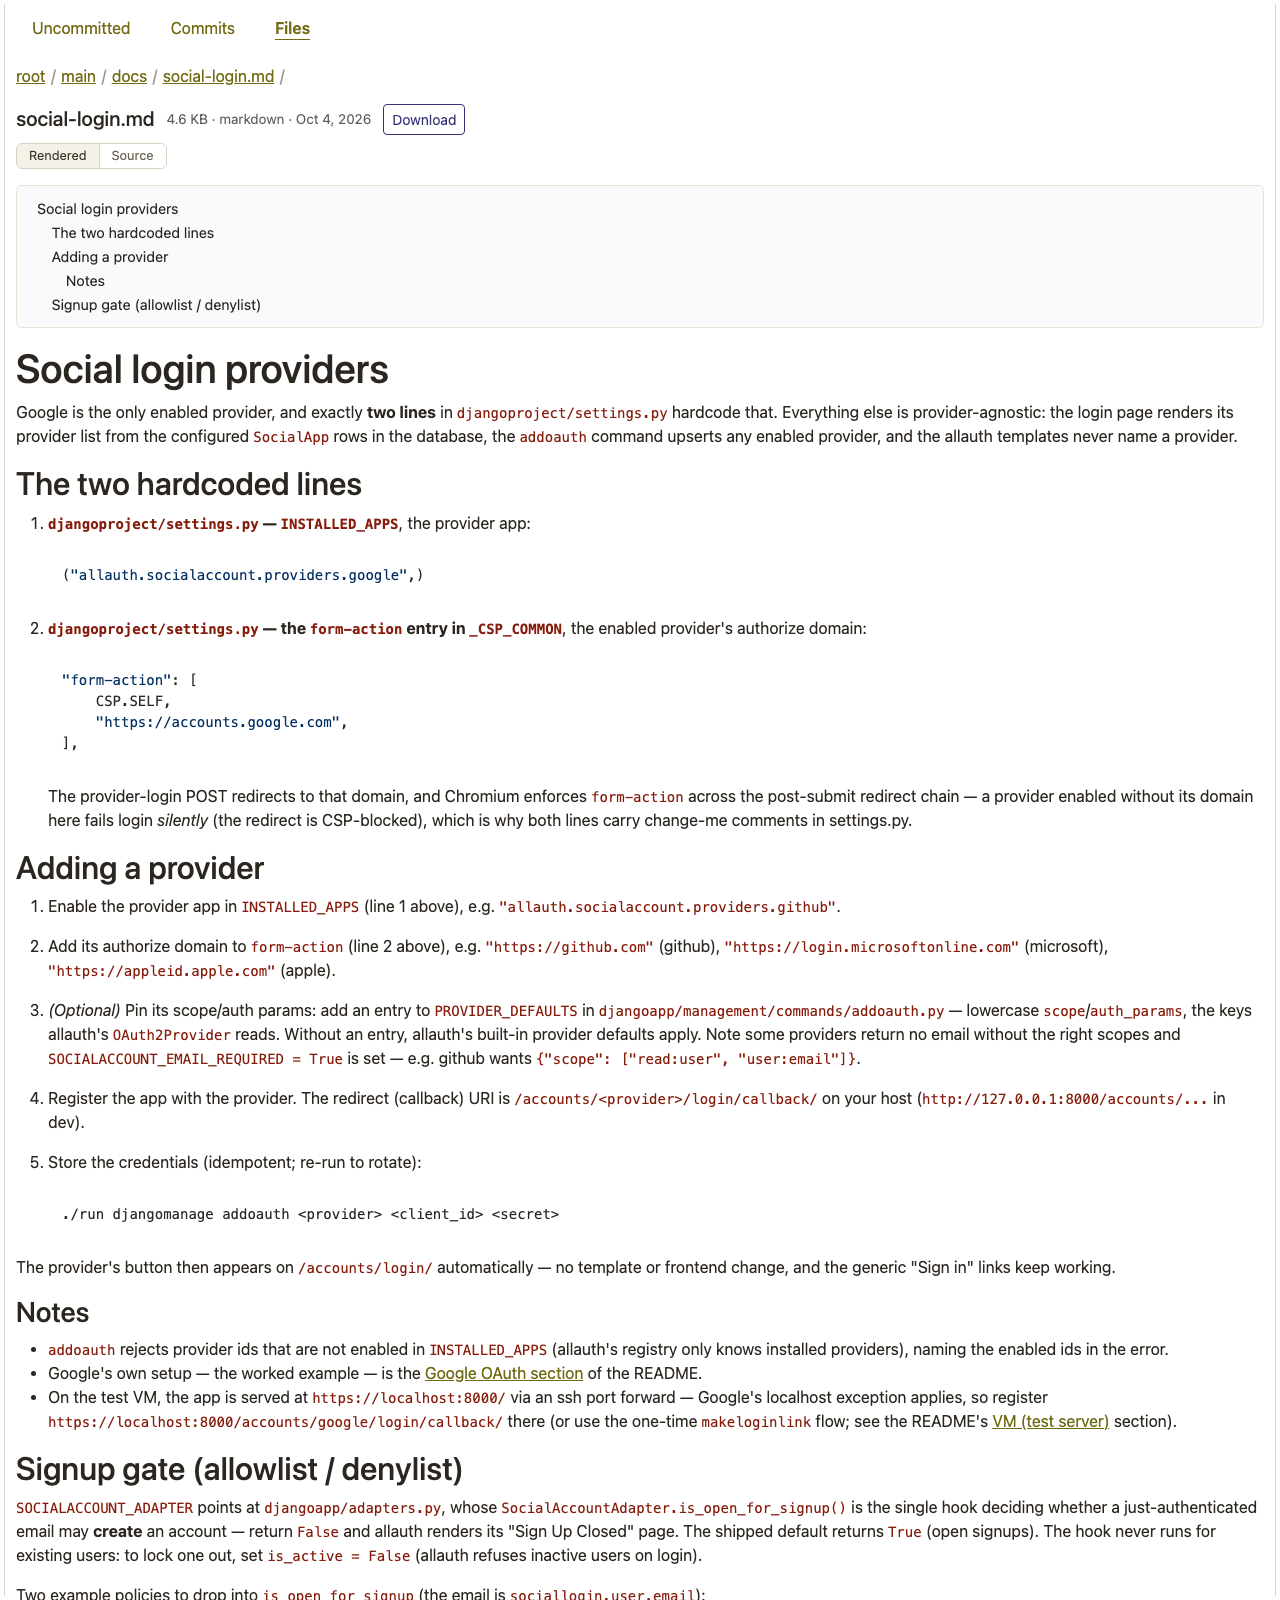
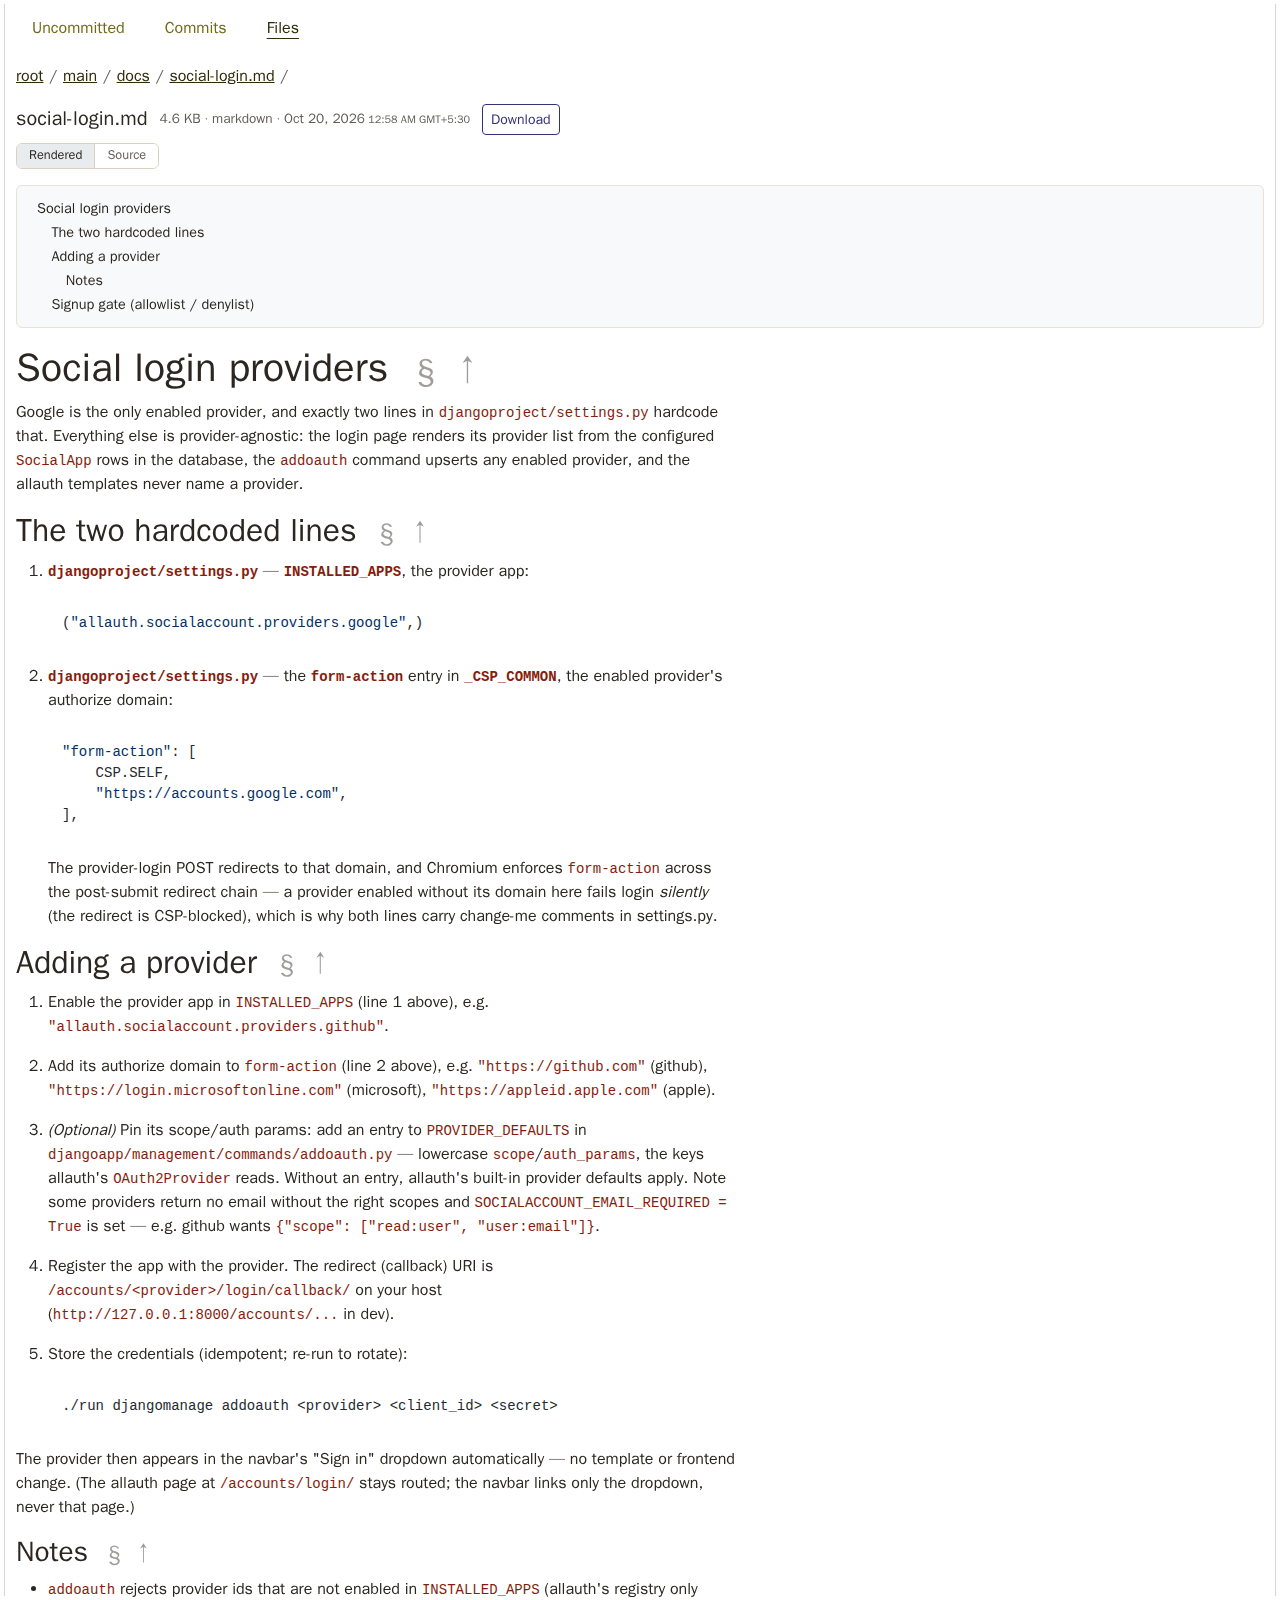
Readable md viewer; heading permalinks; d2 elk + reducing horizontal sprawl, auto dark mode for d2 diagrams in md.
- Heading tools on every rendered heading: § permalink to the section and
  ↑ scroll to top, always visible in muted ink (URI-escaped id — heading
  text is untrusted); the outline strips the tools from its labels
- Text wraps at a readable 75ch measure on wide screens; images, code,
  tables and diagrams span the full panel
- d2 defaults: elk layout, themes 1 (light) / 200 (dark) — diagrams flip
  with prefers-color-scheme via the media query d2 embeds in the SVG
- steer.md: diagram conventions — vertical stacking (root direction down;
  grid-rows/grid-columns inside containers, since inner direction is
  ignored by the engine), fixed-size actors/ovals, data diagrams with
  plain-language + cardinality connections (no "ER" naming), 80-char
  lines and 120-char sentences in design docs
- mockup hatch stripes flip to white in dark mode

diff --git a/frontend/src/main.scss b/frontend/src/main.scss
@@ -254,6 +254,29 @@ body {
   text-decoration: underline dotted;
 }
 
+// Heading tools: permalink to the section + jump to page top. Always
+// visible (hover is useless on mobile), muted to stay behind the text.
+.heading-tools {
+  display: inline;
+  margin-left: 0.5em;
+
+  a {
+    text-decoration: none;
+    font-weight: normal;
+    font-size: 0.8em;
+    color: var(--bs-secondary-color);
+    // Bigger tap target than the bare glyph; the opacity lift covers hover
+    // AND keyboard focus (touch keeps the faded state by design).
+    padding: 0.25em;
+    opacity: 0.6;
+
+    &:hover,
+    &:focus-visible {
+      opacity: 0.95;
+    }
+  }
+}
+
 // The absolute view is muted throughout (see .humanized-time-absolute); the
 // time + tz smalls are smaller still, spaced by margin (inline flow).
 .humanized-time small {

diff --git a/frontend/src/utils/d2.ts b/frontend/src/utils/d2.ts
@@ -30,7 +30,15 @@ function getD2(): Promise<import("@d2lang/d2").D2> {
 export async function renderDiagram(source: string): Promise<string> {
   const d2 = await getD2()
   try {
-    const result = await d2.compile(source)
+    // App-level defaults (the WASM build ignores the language's `vars:` block):
+    // - layout: elk — tighter packing than dagre on dense graphs
+    // - themeID: 1 — Neutral Grey; darkThemeID: 200 — dark mode flips
+    //   automatically (d2 embeds the media query in the SVG)
+    const result = await d2.compile(source, {
+      layout: "elk",
+      themeID: 1,
+      darkThemeID: 200,
+    })
     // One sanitize pass covers the whole app — this is the only path d2
     // output takes into the DOM (it never crosses sanitizeHtml).
     // - d2 escapes every text surface itself

diff --git a/frontend/src/components/MarkdownView.vue b/frontend/src/components/MarkdownView.vue
@@ -29,8 +29,10 @@ onMounted(async () => {
   rendered.value = renderMarkdown(props.text, props.rel)
   raw.value = highlightCode(props.text, "markdown")
   // Parse the rendered (sanitized) HTML — outline entries mirror what's on
-  // the page, and their ids exist only in that final HTML.
+  // the page, and their ids exist only in that final HTML. The heading tools
+  // (permalink/top) are stripped so they never leak into outline labels.
   const doc = new DOMParser().parseFromString(rendered.value, "text/html")
+  doc.querySelectorAll(".heading-tools").forEach((t) => t.remove())
   outline.value = [...doc.querySelectorAll("h1,h2,h3,h4,h5,h6")].map((h) => ({
     level: Number(h.tagName.slice(1)),
     text: h.textContent?.trim() ?? "",

diff --git a/frontend/src/utils/markdown.ts b/frontend/src/utils/markdown.ts
@@ -42,6 +42,15 @@ export function assignHeadingIds(html: string): string {
     while (taken.has(id)) id = `${base}-${++n}`
     taken.add(id)
     h.id = id
+    // § permalink + ↑ to-top. The id is URI-escaped before interpolation —
+    // heading text is untrusted, and this becomes HTML.
+    const attr = encodeURIComponent(id)
+    const tools = doc.createElement("span")
+    tools.className = "heading-tools"
+    tools.innerHTML =
+      `<a class="heading-permalink" href="#${attr}" title="Link to this section">§</a>` +
+      `<a class="heading-top" href="#" title="Scroll to top">↑</a>`
+    h.appendChild(tools)
   }
   return doc.body.innerHTML
 }

diff --git a/frontend/src/styles/_files.scss b/frontend/src/styles/_files.scss
@@ -101,9 +101,27 @@
 .files-markdown {
   margin-top: 0.5rem;
 
+  // Text wraps at a readable measure even on wide screens; images, code,
+  // tables, and diagrams span the full panel instead. marked wraps
+  // standalone images in a <p> — image-only paragraphs escape the measure.
+  > * {
+    max-width: 75ch;
+  }
+
+  > p:has(img:only-child) {
+    max-width: none;
+  }
+
   img {
-    max-width: 100%;
+    width: 100%;
+    max-width: none;
     height: auto;
+  }
+
+  pre,
+  table,
+  .rich-diagram {
+    max-width: none;
   }
 
   h1,

diff --git a/agentconfig/steer.md b/agentconfig/steer.md
@@ -570,10 +570,12 @@ In chat, link it as `<base>/files/main/ourapp/docs/<feature>.md`.
 **Two audiences, one file.** The front of the doc, however long the plain language needs — is the feature in plain
 language; the owner or a new contributor reads only that far. The later
 sections ("For developers") are the reference for people who will touch the
-code.
+code. Wrap every line at ~80 characters — long lines are hard to reread and
+diff. Keep sentences under ~120 characters too; when a sentence runs long,
+split it into points.
 
 **The premise.** Framed around the data — what is stored, how it changes,
-and how it is presented — the app is understandable to both audiences. ER
+and how it is presented — the app is understandable to both audiences. Data
 diagrams therefore belong up front with the plain language; dev jargon
 comes later.
 
@@ -595,17 +597,17 @@ checklist point to this section and restate nothing.
    - boundaries are pages or areas of the app
    - permission rules ride the diagram; anonymous behavior is a note
      ("gets a 404 — the feature is hidden")
-   - a `json` table node can show a payload shape worth seeing (the
+   - a `json` code block can show a payload shape worth seeing (the
      homepage summary counts)
 3. **The data.** Each model in plain words first ("a dish is the menu item;
-   an order is one concrete meal"), then the `erDiagram`. Translate every
+   an order is one concrete meal"), then the data diagram. Translate every
    relationship into behavior: "RESTRICT = a dish with orders can never be
    deleted".
 4. **How the data changes.** Every modification the feature makes —
    change, made by, what exactly happens — as a tight table or bullets,
    opened with the promise "if a change isn't listed here, the feature
    doesn't make it". Then:
-   - a `stateDiagram-v2` when one row kind has a lifecycle
+   - a state diagram when one row kind has a lifecycle
    - the safety rails as bullets (uniqueness, version checks, atomicity,
      clamping)
 5. **What you see.** The UI walkthrough — pages, groups, buttons, feedback.
@@ -642,17 +644,25 @@ them with pan/zoom controls.
 
 - **Use-case diagrams** — composed from D2 primitives, one statement per
   line:
-  - actors — `shape: person`, declared explicitly
-  - use cases — `shape: oval`
+  - actors — `shape: person`, declared explicitly, pinned to
+    `width: 180; height: 160` so every actor renders identically
+  - use cases — `shape: oval`, fixed `width: 240` regardless of label
+    length; a generous radius when drawn as a box instead
+    (`style.border-radius: 24`)
   - the system boundary — a container
   - associations — `->`; include/extend — dashed labeled arrows
     (`{style.stroke-dash: 3}`)
+- **Stack vertically — both tools serve the same goal: phones scroll
+  vertically, and horizontal layouts force side scrolling.**
+  - `direction: down` at the TOP LEVEL of every fence.
+  - The engine ignores `direction` inside containers (inner flows never
+    reorient), so for members that must stack inside a container, use the
+    grid instead: `grid-rows: N; grid-columns: 1` — works everywhere.
+  - When a container outgrows the screen, split the concept into another
+    fence (also `direction: down`).
 - Diagrams are per screen/page and chained — a→b→c flows, never flat
   one-level lists.
-- Lay them out top-down (`direction: down`): wide left-to-right layouts
-  overflow a phone screen and force side scrolling, while a vertical
-  flow fits the narrow screen column. Keep boundaries narrow — few
-  ovals per row.
+- Keep boundaries narrow — few ovals per row.
 - Icons stay local: copy a lucide SVG (grep
   `frontend/node_modules/lucide-static/icons/`) to
   `djangoapp/static/icons/` with a concrete stroke hex, reference
@@ -663,10 +673,12 @@ them with pan/zoom controls.
   grammar, not semantics: an undeclared actor is just a shape — declare
   every actor as `shape: person` yourself. The docs fast path re-checks
   changed files at deploy time automatically.
-- **ER diagrams** — whenever models exist: entities as
-  `shape: sql_table` (columns with types), FKs as labeled arrows carrying
-  the cardinality (`orders -> customer: "N..1"`), delete rules as further
-  labels (`on delete RESTRICT`).
+- **Data diagrams** — whenever models exist: entities as
+  `shape: sql_table` (columns with types). Every connection carries a
+  plain-language description AND the cardinality — e.g.
+  `chores -> user: "belongs to (N..1)"`,
+  `user -> chores: "owns (1..N)"`. Delete rules as further labels
+  (`on delete RESTRICT`).
 - **State diagrams** — when a row kind changes state: states as shapes,
   transitions as labeled arrows, the initial/final states as small
   circles.

diff --git a/docs/d2.md b/docs/d2.md
@@ -3,7 +3,9 @@
 The /files viewer renders ` ```d2 ` fences with the d2 version pinned in
 `frontend/package.json`. `@d2lang/d2` — the WASM engine, its web worker,
 and the fonts — travels in one lazy chunk. Every diagram gets pan/zoom
-controls (+/−/1:1 buttons, ctrl/cmd+wheel, pinch).
+controls (+/−/1:1 buttons, ctrl/cmd+wheel, pinch). Engine and themes are
+set in code (`frontend/src/utils/d2.ts`); this build ignores the
+language's `vars:` block, so don't write one.
 
 **Validate before deploying** — `./run checkmarkdownd2 <file.md>`
 compiles every fence in one file with that exact build and shows the
@@ -20,6 +22,10 @@ narrow. (d2's default is down — the directive documents intent.) Wide
 left-to-right layouts overflow a phone screen; vertical flows fit the
 column. D2 renders SVGs that fit to width by default, and pan/zoom covers
 the rest — but a tall diagram reads better than a wide one at every size.
+
+The engine ignores `direction` inside containers — inner flows never
+reorient. To stack members inside a container, use a grid:
+`grid-rows: N; grid-columns: 1`.
 
 ## Use-case diagrams
 
@@ -49,7 +55,7 @@ note: Visitors can read; borrowing needs a membership. {shape: text}
   permissions; the diagram shows them.
 - `direction: down`, and at most a handful of ovals per boundary row.
 
-## ER diagrams
+## Data diagrams
 
 Entities as `shape: sql_table` — the table card carries columns and types.
 Foreign keys are column-to-column arrows; cardinality and the delete rule

diff --git a/TODO.md b/TODO.md
@@ -1,3 +1,20 @@
+Examine the images within https://localhost:8000/files/main/ourapp/docs/chores.md#who-can-do-what and others.
+actors and ovals are diff sizes
+How to update steer.md to generate people and subjects/objects of fixed size
+And blocks should have fixed width
+
+have usecase diagrams in first place? We were stuck with mermaid which forced us into usecase mould. Is there an alternative diagram thats undertandable to laymen but well documented?
+
+direction: down direction is applicable to inner containers? The top level thing directs blocks downward. Seems inner blocks scroll horizontally.
+
+each line in md is around 80 chars wide for readability. Update steer.md with this.
+
+d2 layout engine
+d2 theme
+d2 auto dark mode?
+
+scroll to top and permalinks?
+
 md - overflow scroll, show absolute time
 Then tell me in which contexts we use relative times.
 Time taken for each stage?
@@ -49,6 +66,8 @@ Features - file section with git etc. Readme is crap.
 
 Admin file uploads - admin can download, both agent and admin can pass files back and forth
 UserHistory.record_created(user, user, user.snapshot()) is a mess
+Pass rison for components?
+Markdown parsing and stuff should return data structures, not just process strings like `assignHeadingIds` in the chain
 
 TUI for config, vapid script could be in Python
 
